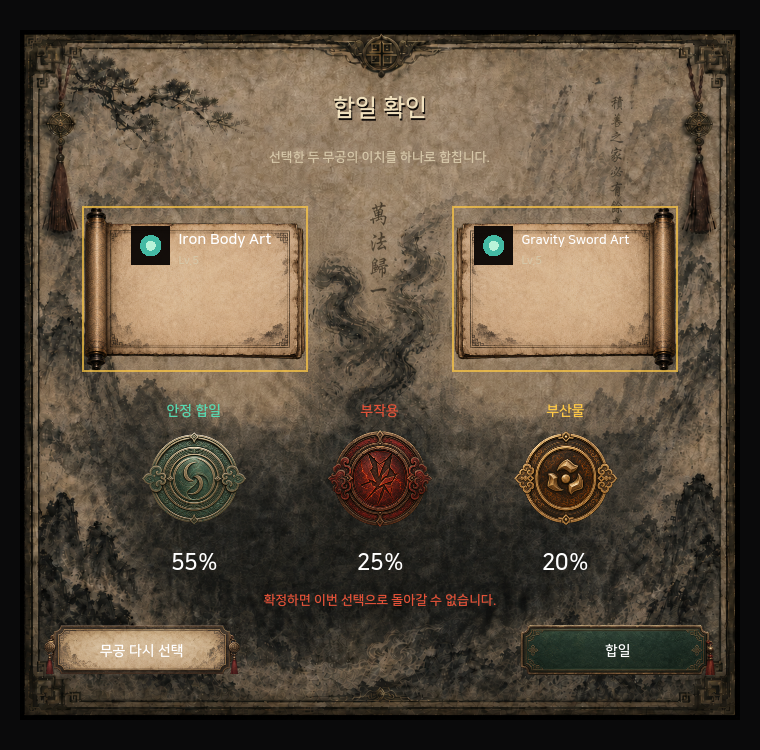
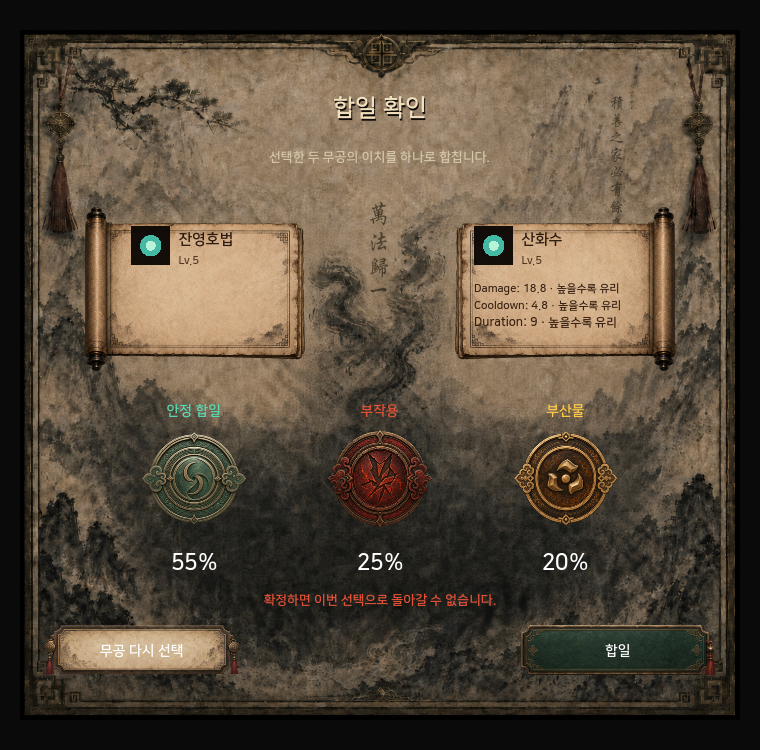
docs: record fusion scroll readability QA

diff --git a/docs/perk_fusion_hwangyeok_jumul_reskin_codex_handoff.md b/docs/perk_fusion_hwangyeok_jumul_reskin_codex_handoff.md
@@ -623,6 +623,23 @@ panel exactly flat #ff00ff.
   fusion_modal_runtime_v1_contact_sheet.png`에 묶었다. 정지 프레임 재채점은
   **모달 크롬 9/10**으로 §11.8 게이트를 충족한다.
 
+### 11.11 족자 가독성 후속 수정 (Codex — 2026-07-31)
+
+- 사용자 실화면에서 `산화수` 아래 옵션 3줄이 밝은 한지와 비슷한 명도의
+  `MUTED_COLOR`로 그려져 흐려졌고, confirm 족자 둘레에는 materials 선택 상태의
+  골드 보더가 남아 노란 사각형으로 보였다.
+- 핵심 수정 커밋 `e2cdee593`: 텍스처 족자 전용 진갈색 잉크 팔레트
+  (제목/레벨/옵션)를 추가하고 옵션은 12px·17px 행간으로 조정했다. confirm
+  pair는 읽기 전용이므로 candidate state border만 명시적으로 끈다. materials
+  카드의 선택/하이라이트와 텍스처 부재 절차 폴백은 그대로 유지한다.
+- 실화면과 같은 `잔영호법 / 산화수` 및 산화수 옵션 3줄 fixture로 Vulkan
+  캡처를 재생성했다. 확대 증적은
+  `images/perk_fusion_hwangyeok_jumul_reskin/qa/
+  fusion_modal_scroll_readability_qa.png`이다.
+- 관련 스모크 7종, repo headless load, 변경 GDScript 3종 focused warning scan이
+  전부 GREEN이다. 신규 씰은 confirm 보더 OFF/materials 보더 ON과 한지용
+  제목·레벨·옵션 색의 luminance/alpha 계약을 함께 봉인한다.
+
 ---
 
 ## 12. §11 랜딩 검수 — 콘텐츠 레이어 미추종 (Claude 리뷰 2026-07-29)
